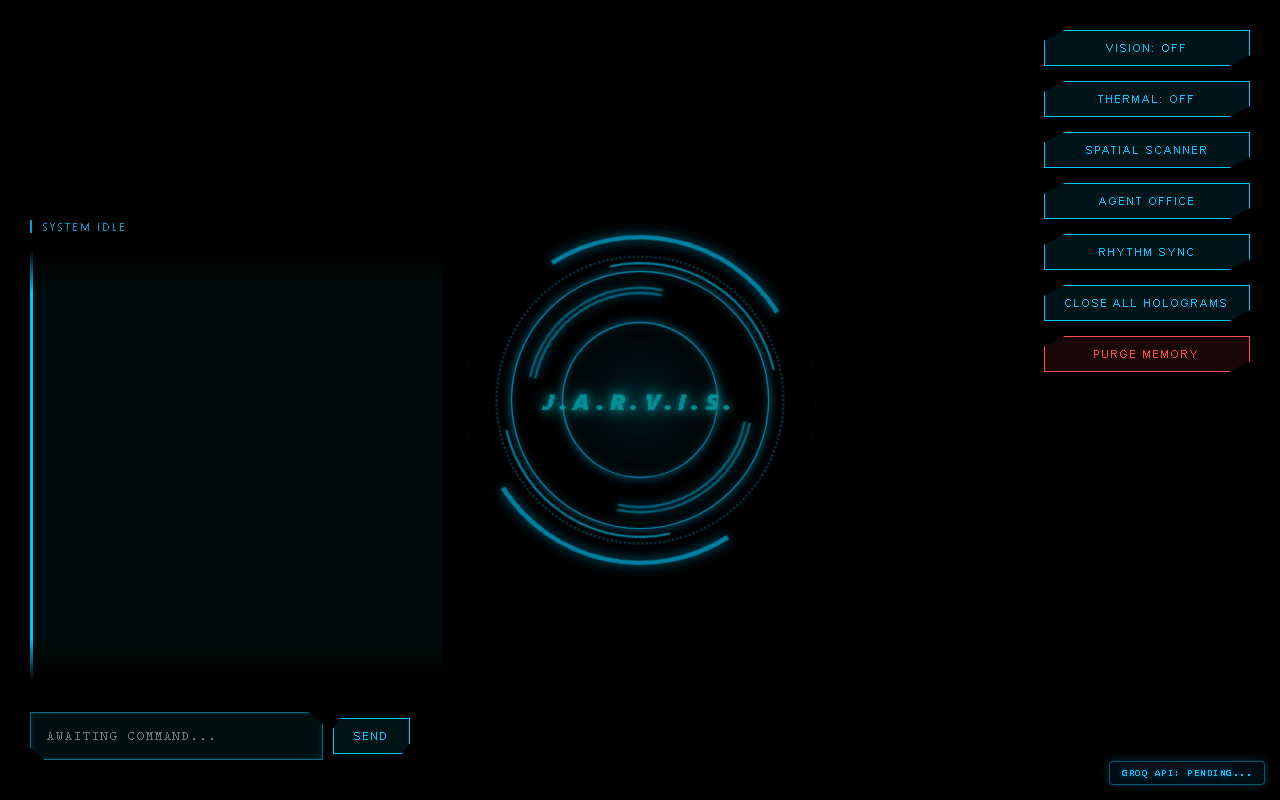
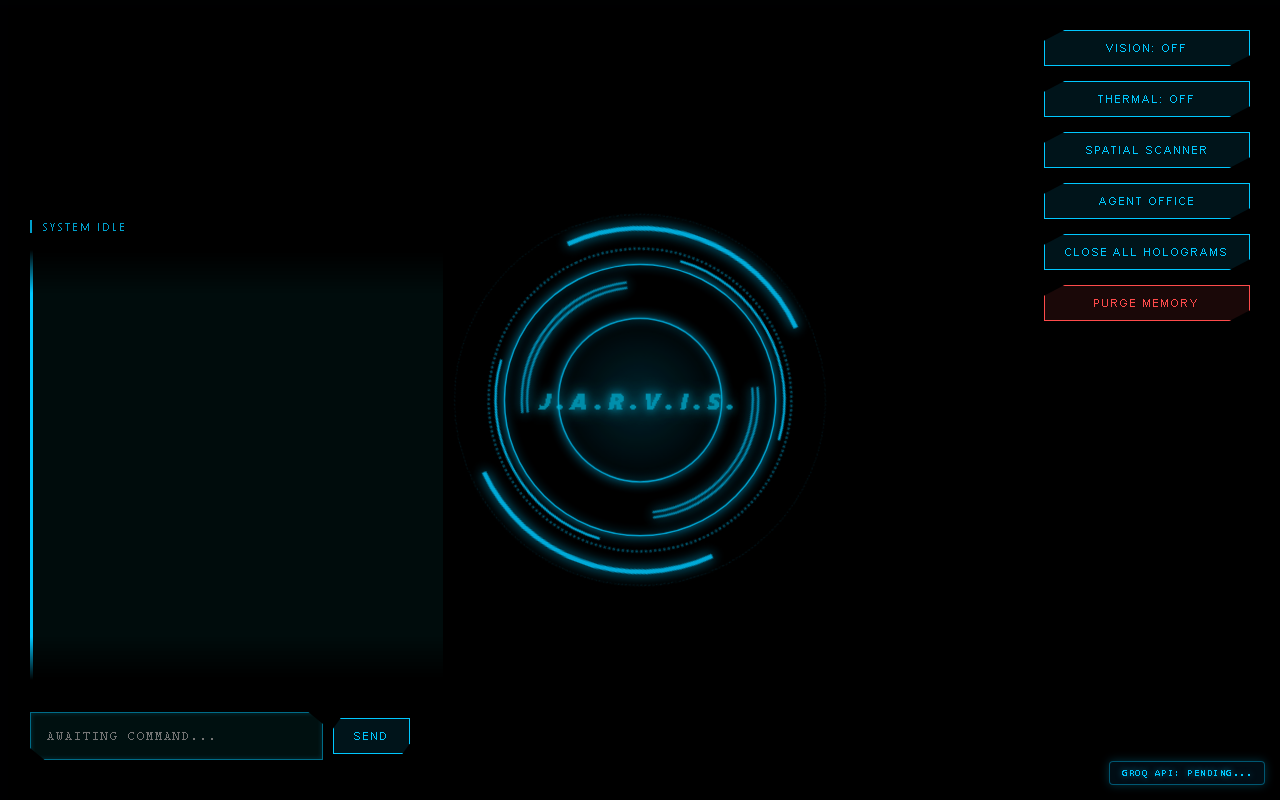
feat(web): remove rhythm sync button, tool, and background handlers

Changed region(s): [[0.375, 0.25, 0.625, 0.75], [0.8125, 0.3438, 1.0, 0.4688]]

diff --git a/web/index.html b/web/index.html
@@ -280,7 +280,6 @@
         <button class="nachapol-btn" id="thermal-toggle" onclick="toggleThermalMode()">THERMAL: OFF</button>
         <button class="nachapol-btn" id="spatial-toggle" onclick="toggleSpatialMode()">SPATIAL SCANNER</button>
         <button class="nachapol-btn" id="office-toggle" onclick="toggleAgentOffice()">AGENT OFFICE</button>
-        <button class="nachapol-btn" onclick="triggerRhythmSync()">RHYTHM SYNC</button>
         <button class="nachapol-btn" onclick="closeAllHolograms()">CLOSE ALL HOLOGRAMS</button>
         <button class="nachapol-btn btn-reset" onclick="resetMemory()">PURGE MEMORY</button>
     </div>

diff --git a/web/script.js b/web/script.js
@@ -1106,11 +1106,6 @@ async function initVisionSystem(video, canvas) {
         requestAnimationFrame(detectFrame);
     }
     detectFrame();
-}
-
-function triggerRhythmSync() {
-    sendMessage("จาร์วิส เปิดระบบ Rhythm Sync");
-}
 
 // --- [NACHAPOL SSE STREAMING TTS ENGINE] ---
 let ttsQueue = [];

diff --git a/jarvis.py b/jarvis.py
@@ -2148,13 +2148,12 @@ def get_relevant_tools(user_text, all_tools):
         "weather": ["get_weather"],
 
         # เพลงและดนตรี
-        "เพลง": ["search_web", "play_music", "start_rhythm_sync"],
-        "เปิดเพลง": ["play_music", "start_rhythm_sync"],
-        "ดนตรี": ["play_music", "start_rhythm_sync"],
-        "music": ["play_music", "start_rhythm_sync"],
+        "เพลง": ["search_web", "play_music"],
+        "เปิดเพลง": ["play_music"],
+        "ดนตรี": ["play_music"],
+        "music": ["play_music"],
         "song": ["play_music"],
-        "จังหวะ": ["start_rhythm_sync", "play_music"],
-        "rhythm": ["start_rhythm_sync"],
+        "จังหวะ": ["play_music"],
         "คอร์ด": ["search_web"],
         "คอร์ดเพลง": ["search_web"],
         "เนื้อเพลง": ["search_web"],
@@ -6272,32 +6271,6 @@ def send_email_notification(subject, body):
         logger.error(f"[EMAIL] Dispatch Failed: {e}")
         return False
 
-def sync_lights_to_music(duration=60):
-    """ระบบจำลองการกระพริบไฟตามจังหวะเพลง (Rhythm Sync)"""
-    def run_sync():
-        
-        """
-        Execute the scheduler's synchronous payload inside a Flask app context.
-
-        Inner closure bridging async APScheduler jobs that need Flask g/current_app.
-        """
-        colors = [[255, 0, 0], [0, 0, 255], [0, 255, 0], [255, 255, 0], [255, 0, 255], [0, 255, 255]]
-        end_time = time.time() + duration
-        try:
-            while time.time() < end_time:
-                color = random.choice(colors)
-                
-                control_light("all", "on", brightness=255, rgb_color=color, transition=0, silent=True)
-                time.sleep(0.6)
-                control_light("all", "on", brightness=80, rgb_color=color, transition=0, silent=True)
-                time.sleep(0.3)
-            
-            control_light("all", "on", brightness=255, kelvin=4500, transition=3, silent=True)
-        except Exception as e:
-            logger.error(f"Rhythm Sync Error: {e}")
-    
-    threading.Thread(target=run_sync, daemon=True).start()
-
 def _install_missing_dependencies(code: str) -> List[str]:
     """
     Parses the given Python code for import statements and attempts to install
@@ -7511,7 +7484,6 @@ def execute_tool_call(tool_call, project_path, user_raw_message=""):
         "run_evolution_scan": lambda a: __import__('jarvis_evolution').run_evolution_scan_operation(),
         "call_boss": lambda a: call_boss_operation(a.get("reason", "มีรายงานสำคัญจากระบบครับ"), a.get("message", "")),
         "analyze_molecular_structure": lambda a: analyze_molecular_structure_operation(a.get("element_name")),
-        "start_rhythm_sync": lambda a: (sync_lights_to_music(a.get("duration", 60)) or "เปิดระบบ Rhythm Sync เรียบร้อยครับท่าน"),
         "gui_control": lambda a: gui_control_operation(a.get("action"), a.get("x"), a.get("y"), a.get("text"), a.get("key")),
         "get_thermal_telemetry": lambda a: get_thermal_telemetry_operation(),
         "get_spatial_reconstruction": lambda a: get_spatial_reconstruction_operation(),

diff --git a/jarvis_core/tool_registry.py b/jarvis_core/tool_registry.py
@@ -354,19 +354,6 @@ TOOLS_DEFINITION = [
     {
         "type": "function",
         "function": {
-            "name": "start_rhythm_sync",
-            "description": "เปิดใช้งานระบบไฟกระพริบตามจังหวะ (Rhythm Sync) สำหรับสร้างบรรยากาศปาร์ตี้หรือความบันเทิง",
-            "parameters": {
-                "type": "object",
-                "properties": {
-                    "duration": {"type": "integer", "description": "ระยะเวลาการทำงาน (วินาที) ค่าเริ่มต้นคือ 60"}
-                }
-            }
-        }
-    },
-    {
-        "type": "function",
-        "function": {
             "name": "generate_new_tool",
             "description": "สร้างเครื่องมือ (Tool) ใหม่ขึ้นมาเพื่อทำงานที่ระบบปัจจุบันยังทำไม่ได้ โดยการเขียนโค้ด Python",
             "parameters": {
